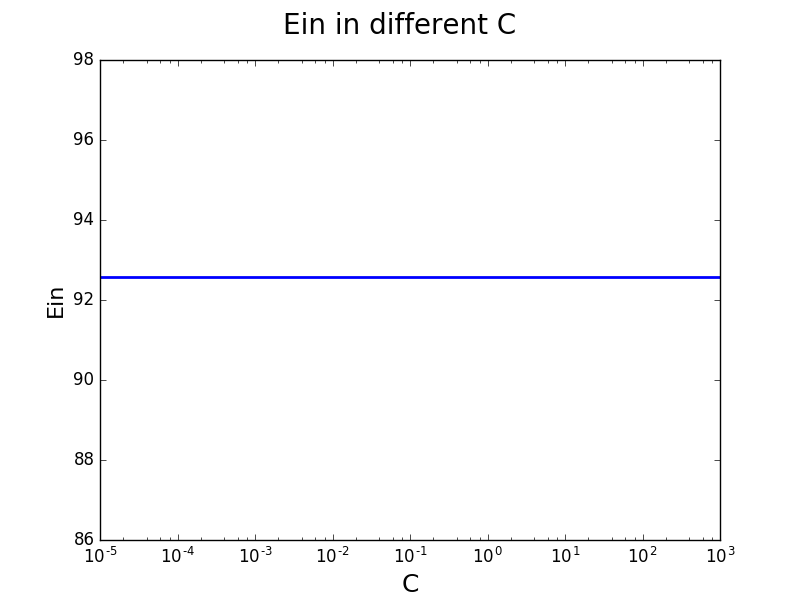
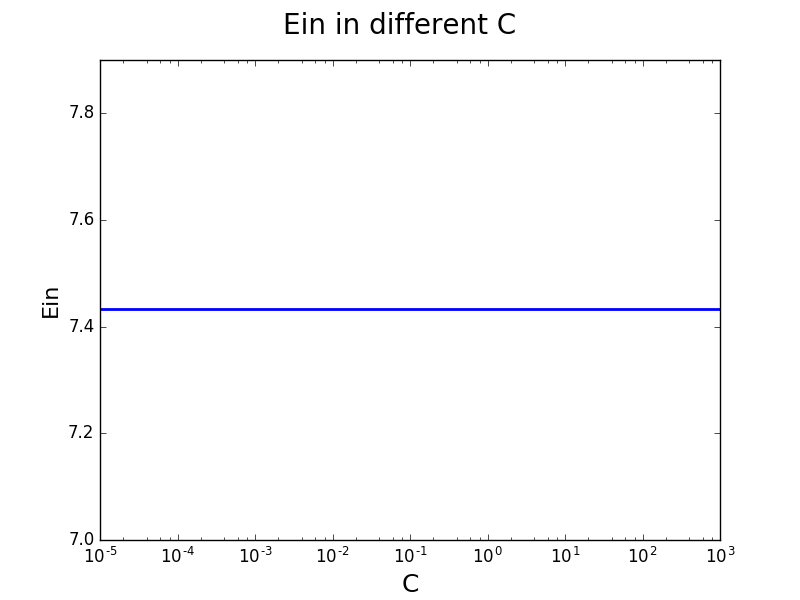
update

diff --git a/hw1/problem14/solution.py b/hw1/problem14/solution.py
@@ -17,22 +17,11 @@ valid = (
         "svm-predict train_data model_4 tmp > output4"
         )
 
-def gen_val():
-    shuffle(data)
-    with open('val','w') as fd:
-        for i in data[:1000]:
-            print(i, file=fd)
-    with open('train','w') as fd:
-        for  i in data[1000:]:
-            print(i,file=fd)
-
 def get_result():
-    result = [float(open('output'+str(i),'r').read().split(' ')[2][:-1]) for i in range(5)]
+    result = [float(open('model_'+str(i),'r').read().split('\n')[6].split(' ')[1]) for i in range(5)]
     return result
 
 
-for validation in valid:
-    system(validation)
 result = get_result()
 print (result)
 fig = plt.figure()
@@ -40,6 +29,6 @@ fig.suptitle("Ein in different C",fontsize=20)
 plt.xlabel('C',fontsize = 18)
 plt.ylabel('Ein', fontsize = 16)
 x = [-5,-3,-1,1,3]
-plt.plot([pow(10,i) for i in x],[100-i for i in result],color='blue',lw=2)
+plt.plot([pow(10,i) for i in x],result,color='blue',lw=2)
 plt.xscale('log')
 plt.show()

diff --git a/hw1/problem15/solution.py b/hw1/problem15/solution.py
@@ -29,8 +29,8 @@ print (result)
 fig = plt.figure()
 fig.suptitle("Eout in different gamma",fontsize=20)
 plt.xlabel('C',fontsize = 18)
-plt.ylabel('Ein', fontsize = 16)
+plt.ylabel('Eout', fontsize = 16)
 x = [0,1,2,3,4]
-plt.plot([pow(10,i) for i in x],result,color='blue',lw=2)
+plt.plot([pow(10,i) for i in x],[100-i for i in result],color='blue',lw=2)
 plt.xscale('log')
 plt.show()
